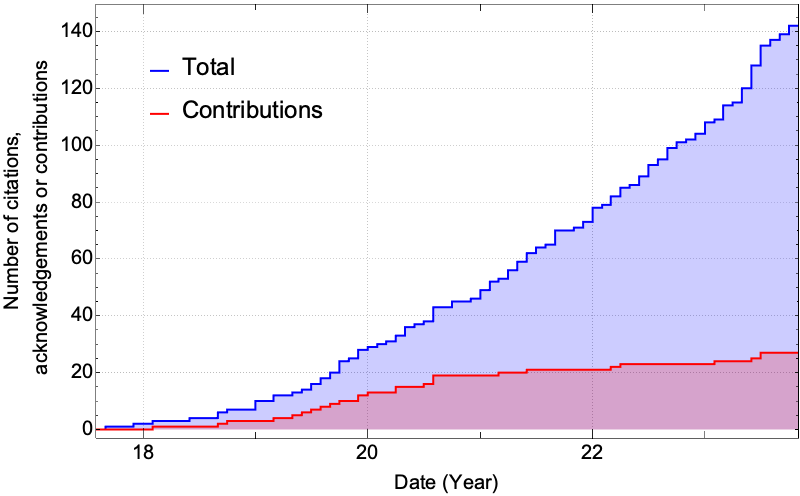
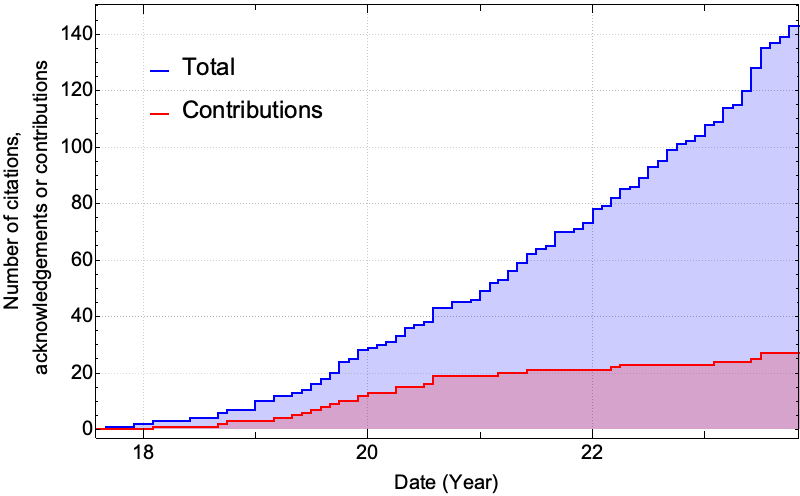
Add paper the cites the BHPToolkit

diff --git a/users.md b/users.md
@@ -19,6 +19,8 @@ The graph below show the accumulated citations to the Toolkit over time. The blu
 
 Below is a list of research papers that have used or extended the Toolkit. Papers that have contributed code or data to the Toolkit have a (*) after them.
 
+143\. "BHPWAVE: An adiabatic gravitational waveform model for compact objects undergoing quasi-circular inspirals into rotating massive black holes", Zachary Nasipak, [arXiv:2310.19706](https://arxiv.org/abs/2310.19706)
+
 142\. "Accuracy Requirements: Assessing the Importance of First Post-Adiabatic Terms for Small-Mass-Ratio Binaries", Ollie Burke, Gabriel Andres Piovano, Niels Warburton, Phillip Lynch, Lorenzo Speri, Chris Kavanagh, Barry Wardell, Adam Pound, Leanne Durkan, Jeremy Miller, [arXiv:2310.08927](https://arxiv.org/abs/2310.08927)
 
 141\. "Extreme mass-ratio inspiral and waveforms for a spinning body into a Kerr black hole via osculating geodesics and near-identity transformations", Lisa V. Drummond, Philip Lynch, Alexandra G. Hanselman, Devin R. Becker, Scott A. Hughes, [arXiv:2310.08438](https://arxiv.org/abs/2310.08438)
